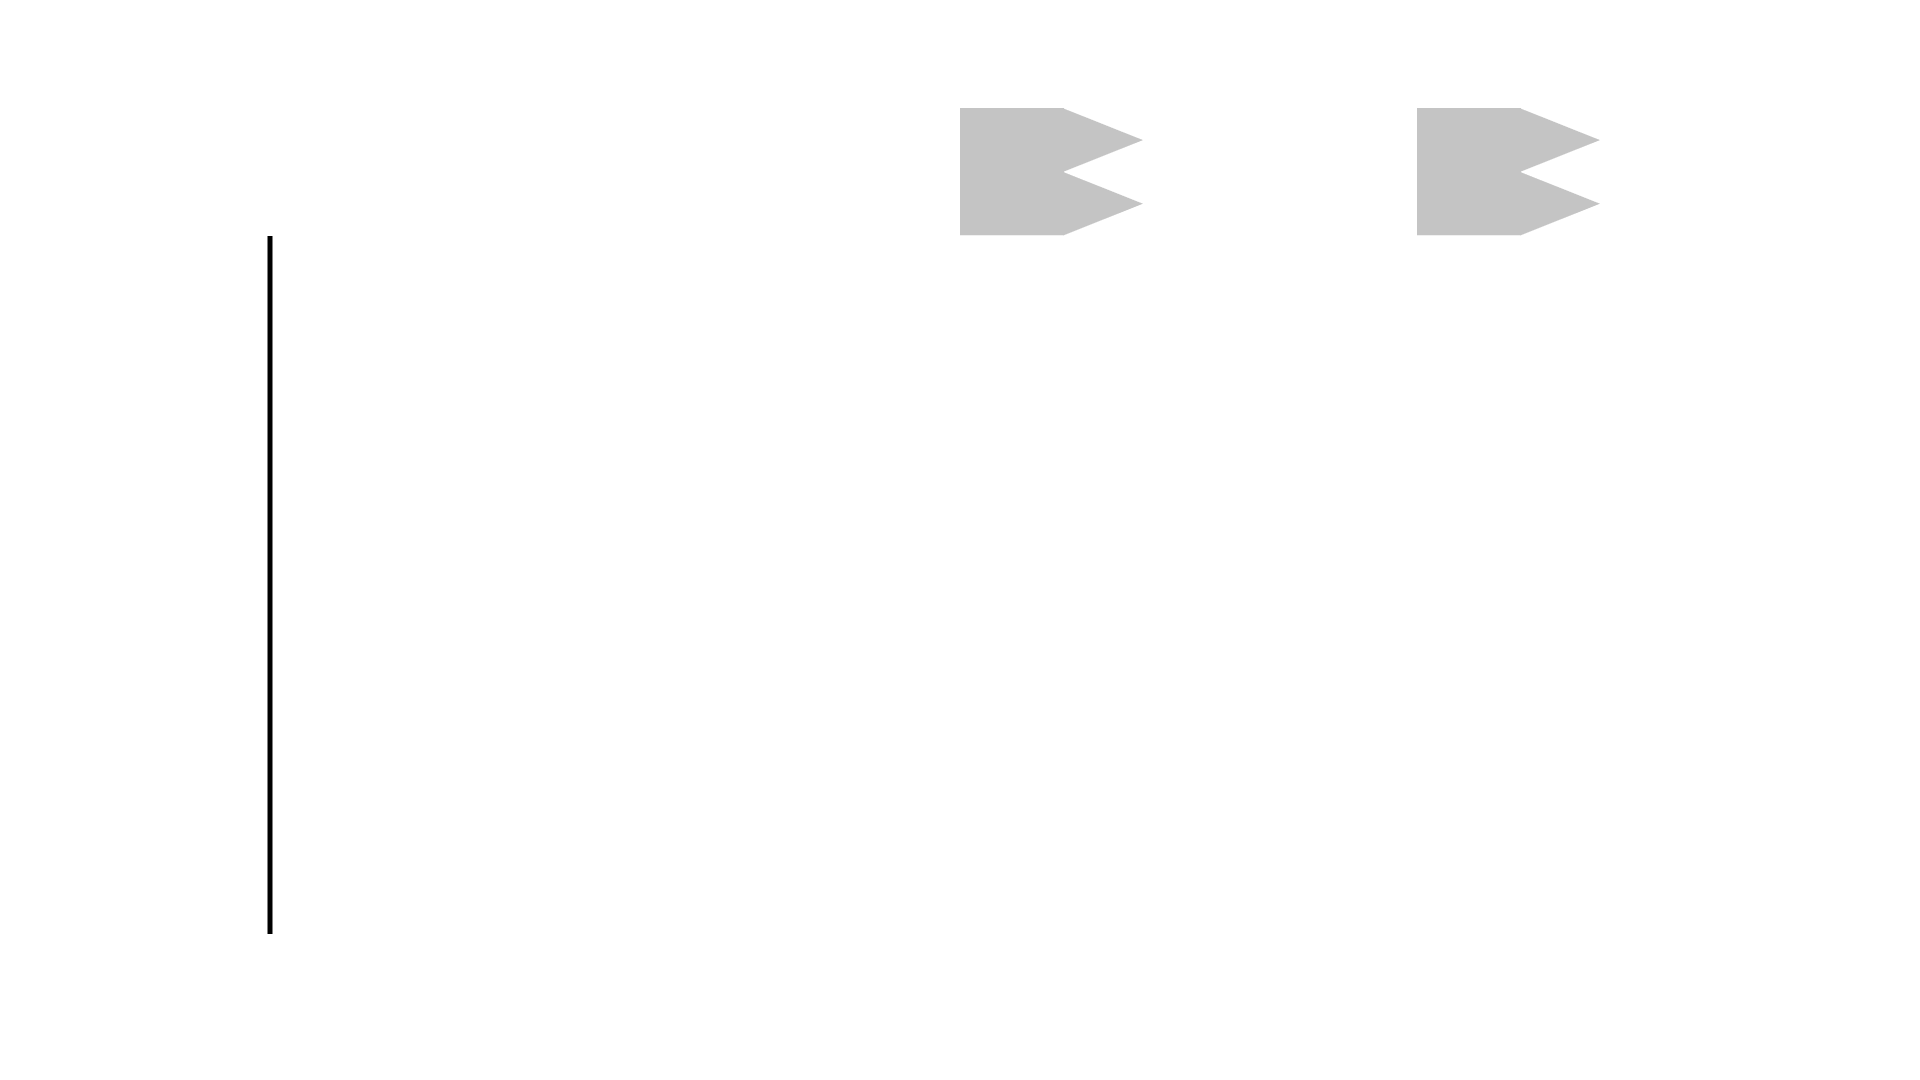
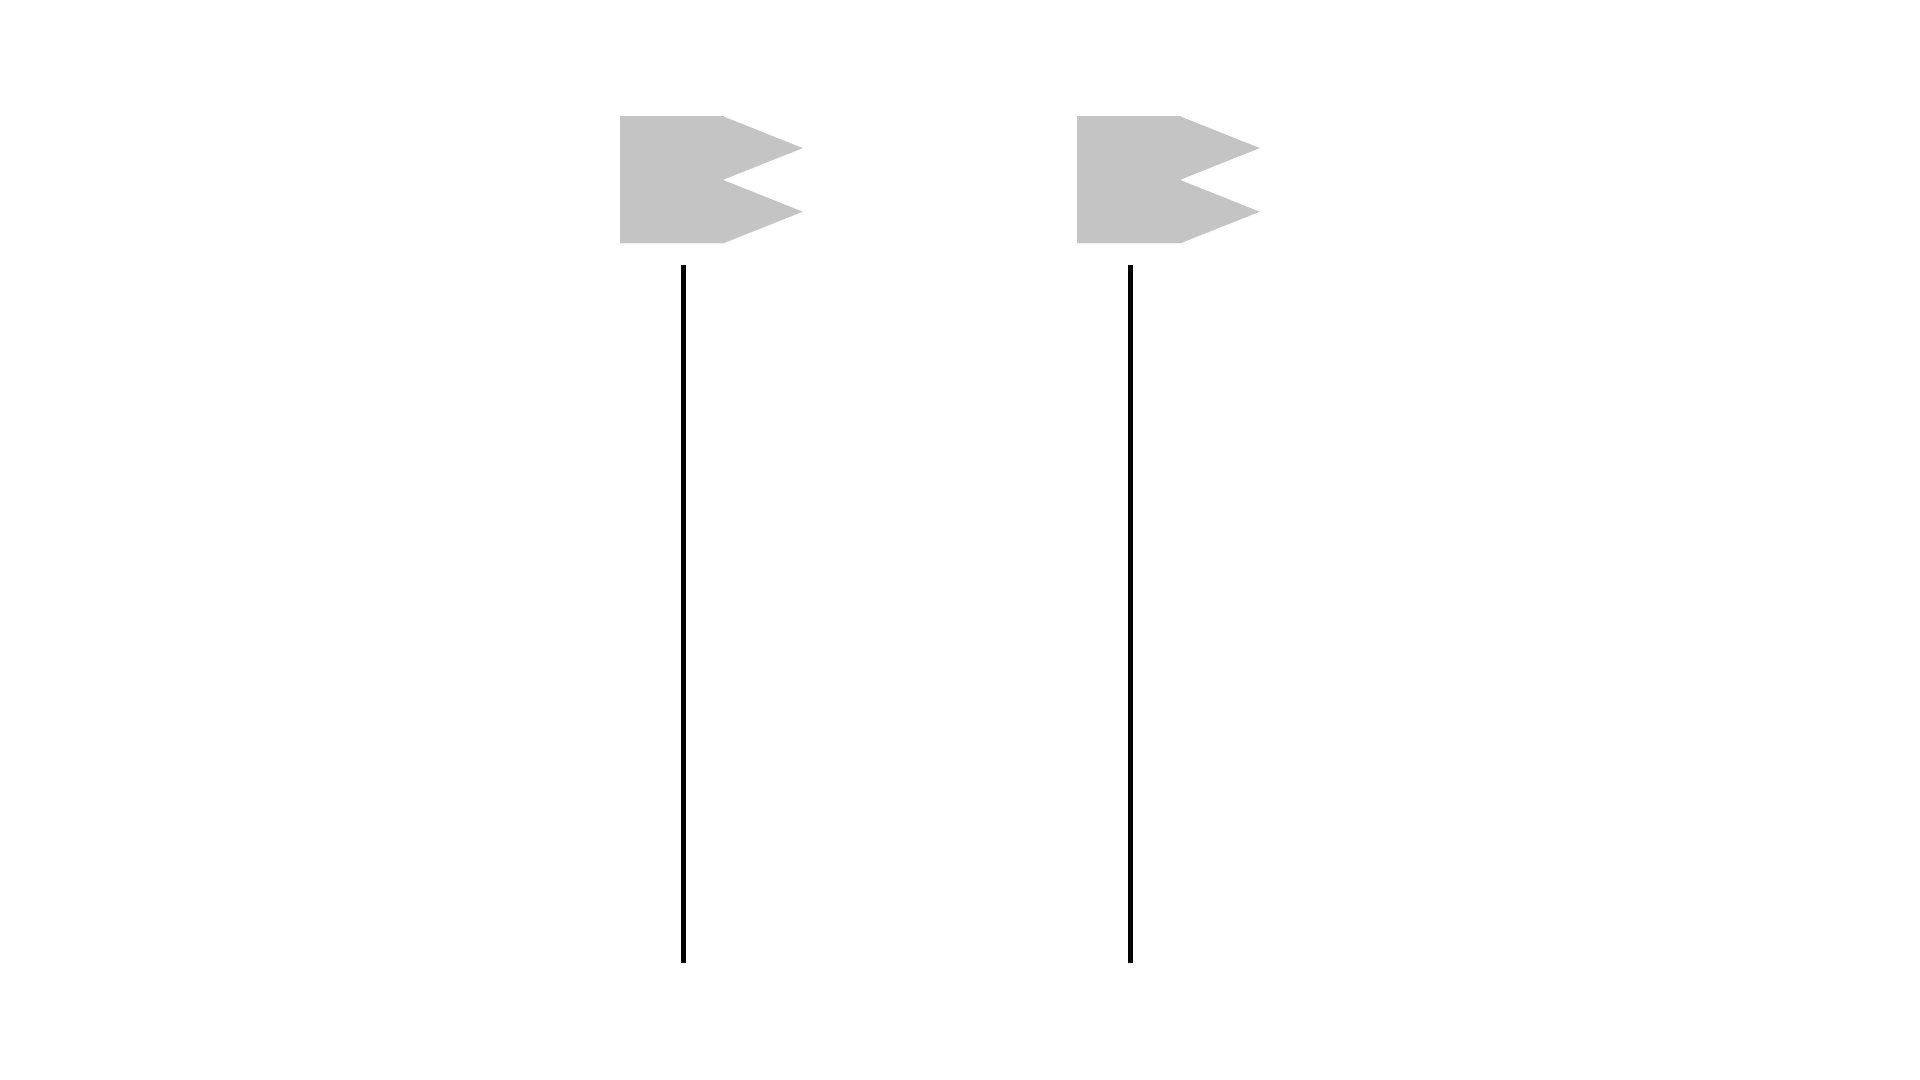
Game Participants and Teams joined and working

Changed region(s): [[0.5, 0.0917, 0.6562, 0.2444], [0.3125, 0.0917, 0.4375, 0.2444], [0.7188, 0.0917, 0.8438, 0.2444]]

diff --git a/MC7-Camp/Scenes/PickPlayersTeams.swift b/MC7-Camp/Scenes/PickPlayersTeams.swift
@@ -1,34 +1,25 @@
 //
-//  PickTeam.swift
+//  PickPlayers.swift
 //  MC7-Camp
 //
-//  Created by Paula Leite on 10/07/20.
+//  Created by Paula Leite on 14/07/20.
 //  Copyright © 2020 Paula Leite. All rights reserved.
 //
 
 import Foundation
 import SpriteKit
 
-enum Selection {
-    case none
-    case team1
-    case team2
-}
-
-class PickTeam: SKScene {
+class PickPlayersTeams: SKScene {
+    var backgroundImage = String()
+    var nameGameChosen = String()
+    
     var backButton = MenuButtonNode()
     var buttons = [MenuButtonNode]()
-    var flags = [MenuButtonNode]()
     var teamButtons = [MenuButtonNode]()
     var playButton = MenuButtonNode()
     
     var numberOfPlayers = Int()
     var colorName = [String]()
-    
-    var flag1 = MenuButtonNode()
-    var flag2 = MenuButtonNode()
-    var flag3 = MenuButtonNode()
-    var flag4 = MenuButtonNode()
     var nameOfFlags = [String]()
     
     var flag1Selected = MenuButtonNode()
@@ -40,59 +31,14 @@ class PickTeam: SKScene {
     var flag3Team = MenuButtonNode()
     var flag4Team = MenuButtonNode()
     
-    var user1 = [Any]()
-    var user2 = [Any]()
-    var user3 = [Any]()
-    
     override func didMove(to view: SKView) {
         setupBackground()
         setupUIButtons()
         
-        numberOfPlayers = 2
-        setupFlags(numberOfPlayers: numberOfPlayers)
+        numberOfPlayers = 3
         setupTeamButtons(numberOfPlayers: numberOfPlayers)
         
         addTapGestureRecognizer()
-    }
-    
-    func setupFlags(numberOfPlayers: Int) {
-        var i = 0
-        let nameFlag = "flag"
-        while(i < numberOfPlayers) {
-            let colorFlag = nameFlag + "\(i + 1)"
-            nameOfFlags.append(colorFlag)
-            i = i + 1
-        }
-        
-        if numberOfPlayers == 2 {
-            flag1 = MenuButtonNode(name: nameOfFlags[0])
-            flag1.position = CGPoint(x: 352, y: 725)
-            flag1.zPosition = 0
-            addChild(flag1)
-            flags.append(flag1)
-            
-            flag2 = MenuButtonNode(name: nameOfFlags[1])
-            flag2.position = CGPoint(x: 352, y: 540)
-            flag2.zPosition = 0
-            addChild(flag2)
-        } else {
-            flag1 = MenuButtonNode(name: nameOfFlags[0])
-            flag1.position = CGPoint(x: 352, y: 725)
-            flag1.zPosition = 0
-            addChild(flag1)
-            flags.append(flag1)
-            
-            flag2 = MenuButtonNode(name: nameOfFlags[1])
-            flag2.position = CGPoint(x: 352, y: 540)
-            flag2.zPosition = 0
-            addChild(flag2)
-            flags.append(flag2)
-            
-            flag3 = MenuButtonNode(name: nameOfFlags[2])
-            flag3.position = CGPoint(x: 352, y: 353)
-            flag3.zPosition = 0
-            addChild(flag3)
-        }
     }
     
     func setupUIButtons() {
@@ -124,62 +70,62 @@ class PickTeam: SKScene {
         
         if numberOfPlayers == 2 {
             flag1Team = MenuButtonNode(name: "botaoTime")
-            flag1Team.position = CGPoint(x: 1219, y: 700)
+            flag1Team.position = CGPoint(x: 914, y: 600)
             flag1Team.zPosition = 0
             addChild(flag1Team)
             teamButtons.append(flag1Team)
-            flag1Team.selectedTeam1 = true
+            flag1Team.participating = true
             
-            flag1Selected = MenuButtonNode(name: "button_selected")
-            flag1Selected.position = CGPoint(x: 992.5, y: 700)
+            flag1Selected = MenuButtonNode(name: nameOfFlags[0])
+            flag1Selected.position = CGPoint(x: 761, y: 600)
             flag1Selected.zPosition = 1
             addChild(flag1Selected)
             
             flag2Team = MenuButtonNode(name: "botaoTime")
-            flag2Team.position = CGPoint(x: 1219, y: 519)
+            flag2Team.position = CGPoint(x: 914, y: 420)
             flag2Team.zPosition = 0
             addChild(flag2Team)
             teamButtons.append(flag2Team)
-            flag2Team.selectedTeam1 = true
+            flag2Team.participating = true
             
-            flag2Selected = MenuButtonNode(name: "button_selected")
-            flag2Selected.position = CGPoint(x: 992.5, y: 519)
+            flag2Selected = MenuButtonNode(name: nameOfFlags[1])
+            flag2Selected.position = CGPoint(x: 761, y: 420)
             flag2Selected.zPosition = 1
             addChild(flag2Selected)
         } else {
             flag1Team = MenuButtonNode(name: "botaoTime")
-            flag1Team.position = CGPoint(x: 1219, y: 700)
+            flag1Team.position = CGPoint(x: 914, y: 600)
             flag1Team.zPosition = 0
             addChild(flag1Team)
             teamButtons.append(flag1Team)
-            flag1Team.selectedTeam1 = true
+            flag1Team.participating = true
             
-            flag1Selected = MenuButtonNode(name: "button_selected")
-            flag1Selected.position = CGPoint(x: 992.5, y: 700)
+            flag1Selected = MenuButtonNode(name: nameOfFlags[0])
+            flag1Selected.position = CGPoint(x: 761, y: 600)
             flag1Selected.zPosition = 1
             addChild(flag1Selected)
             
             flag2Team = MenuButtonNode(name: "botaoTime")
-            flag2Team.position = CGPoint(x: 1219, y: 519)
+            flag2Team.position = CGPoint(x: 914, y: 420)
             flag2Team.zPosition = 0
             addChild(flag2Team)
             teamButtons.append(flag2Team)
-            flag2Team.selectedTeam1 = true
+            flag2Team.participating = true
             
-            flag2Selected = MenuButtonNode(name: "button_selected")
-            flag2Selected.position = CGPoint(x: 992.5, y: 519)
+            flag2Selected = MenuButtonNode(name: nameOfFlags[1])
+            flag2Selected.position = CGPoint(x: 761, y: 420)
             flag2Selected.zPosition = 1
             addChild(flag2Selected)
             
             flag3Team = MenuButtonNode(name: "botaoTime")
-            flag3Team.position = CGPoint(x: 1219, y: 344)
+            flag3Team.position = CGPoint(x: 914, y: 245)
             flag3Team.zPosition = 0
             addChild(flag3Team)
             teamButtons.append(flag3Team)
-            flag3Team.selectedTeam1 = true
+            flag3Team.participating = true
             
-            flag3Selected = MenuButtonNode(name: "button_selected")
-            flag3Selected.position = CGPoint(x: 992.5, y: 344)
+            flag3Selected = MenuButtonNode(name: nameOfFlags[2])
+            flag3Selected.position = CGPoint(x: 761, y: 245)
             flag3Selected.zPosition = 1
             addChild(flag3Selected)
         }
@@ -190,7 +136,8 @@ class PickTeam: SKScene {
     }
     
     func setupBackground() {
-        let background = SKSpriteNode(imageNamed: "chooseTeam")
+//        guard let backgroundImage = gameChosen?.backgroundImage else { return }
+        let background = SKSpriteNode(imageNamed: backgroundImage)
         background.position = CGPoint(x: 960, y: 540)
         background.zPosition = -1
         addChild(background)
@@ -222,34 +169,50 @@ class PickTeam: SKScene {
                 let scene = GameChoices(size: size)
                 loadScreens(scene: scene)
             } else if focussedItem == playButton {
-                /* Load BallGame scene */
-                guard let size = view?.frame.size else { return }
-                let scene = BallGame(size: size)
-                // I need to send which players are playing.
-                loadScreens(scene: scene)
+                if backgroundImage == "chooseParticipants" && nameGameChosen == "Bagunca" {
+                    /* Load BallGame scene */
+                    guard let size = view?.frame.size else { return }
+                    let scene = MessGame(size: size)
+                    // I need to send which players are playing.
+                    loadScreens(scene: scene)
+                } else if backgroundImage == "chooseParticipants" && nameGameChosen == "Basquete" {
+                    self.backgroundImage = "chooseTeam"
+                    self.nameGameChosen = "Basquete"
+                    let scene = PickPlayersTeams(size: size)
+                    scene.backgroundImage = self.backgroundImage
+                    scene.nameGameChosen = self.nameGameChosen
+                    self.loadScreens(scene: scene)
+                } else if backgroundImage == "chooseTeam" && nameGameChosen == "Basquete" {
+                    /* Load BallGame scene */
+                    guard let size = view?.frame.size else { return }
+                    let scene = BallGame(size: size)
+                    // I need to send which players are playing.
+                    loadScreens(scene: scene)
+                }
+                
             } else if focussedItem == flag1Team {
-                if flag1Team.selectedTeam1 == true {
-                    flag1Selected.position = CGPoint(x: 1440, y: 700)
-                    flag1Team.selectedTeam1 = false
+                if flag1Team.participating == true {
+                    flag1Selected.position = CGPoint(x: 1208, y: 600)
+                    flag1Team.participating = false
                 } else {
-                    flag1Selected.position = CGPoint(x: 992.5, y: 700)
-                    flag1Team.selectedTeam1 = true
+                    flag1Selected.position = CGPoint(x: 761, y: 600)
+                    flag1Team.participating = true
                 }
             } else if focussedItem == flag2Team {
-                if flag2Team.selectedTeam1 == true {
-                    flag2Selected.position = CGPoint(x: 1440, y: 519)
-                    flag2Team.selectedTeam1 = false
+                if flag2Team.participating == true {
+                    flag2Selected.position = CGPoint(x: 1208, y: 420)
+                    flag2Team.participating = false
                 } else {
-                    flag2Selected.position = CGPoint(x: 992.5, y: 519)
-                    flag2Team.selectedTeam1 = true
+                    flag2Selected.position = CGPoint(x: 761, y: 420)
+                    flag2Team.participating = true
                 }
             } else if focussedItem == flag3Team {
-                if flag3Team.selectedTeam1 == true {
-                    flag3Selected.position = CGPoint(x: 1440, y: 344)
-                    flag3Team.selectedTeam1 = false
+                if flag3Team.participating == true {
+                    flag3Selected.position = CGPoint(x: 1208, y: 245)
+                    flag3Team.participating = false
                 } else {
-                    flag3Selected.position = CGPoint(x: 992.5, y: 344)
-                    flag3Team.selectedTeam1 = true
+                    flag3Selected.position = CGPoint(x: 761, y: 245)
+                    flag3Team.participating = true
                 }
             }
         }

diff --git a/MC7-Camp/Scenes/GameChoices.swift b/MC7-Camp/Scenes/GameChoices.swift
@@ -15,6 +15,8 @@ class GameChoices: SKScene {
     var backButton = MenuButtonNode()
     var messGameButton = MenuButtonNode()
     var ballGameButton = MenuButtonNode()
+    var backgroundImage = String()
+    var nameGameChosen = String()
     
     override func didMove(to view: SKView) {
         print("Inside Game Choices.")
@@ -82,14 +84,17 @@ class GameChoices: SKScene {
                 print("Could not make MainMenu, check the name is spelled correctly")
                 loadScreens(scene: scene)
             } else if focussedItem == messGameButton {
+                
                 let alert = UIAlertController(title: "Jogar o Jogo da Bagunça", message: "Você tem certeza de que deseja jogar esse jogo?", preferredStyle: .alert)
                 alert.addAction(UIAlertAction(title: "Cancelar", style: .cancel, handler: { _ in }))
                 alert.addAction(UIAlertAction(title: "Confirmar", style: .default, handler: { (_) in
-                    //TODO: Aqui deve sair do servidor como membro
-                    /* Load Main scene */
+                    /* Load Pick Players scene */
                     guard let size = self.view?.frame.size else { return }
-                    let scene = PickTeam(size: size)
-                    print("Could not make Pick Teams, check the name is spelled correctly")
+                    self.backgroundImage = "chooseParticipants"
+                    self.nameGameChosen = "Bagunca"
+                    let scene = PickPlayersTeams(size: size)
+                    scene.backgroundImage = self.backgroundImage
+                    scene.nameGameChosen = self.nameGameChosen
                     self.loadScreens(scene: scene)
                 }))
                 if let vc = self.scene?.view?.window?.rootViewController {
@@ -99,11 +104,13 @@ class GameChoices: SKScene {
                 let alert = UIAlertController(title: "Jogar o Jogo de Basquete", message: "Você tem certeza de que deseja jogar esse jogo?", preferredStyle: .alert)
                 alert.addAction(UIAlertAction(title: "Cancelar", style: .cancel, handler: { _ in }))
                 alert.addAction(UIAlertAction(title: "Confirmar", style: .default, handler: { (_) in
-                    //TODO: Aqui deve sair do servidor como membro
-                    /* Load Main scene */
+                    /* Load Pick Team scene */
                     guard let size = self.view?.frame.size else { return }
-                    let scene = BallGame(size: size)
-                    print("Could not make BallGame, check the name is spelled correctly")
+                    self.backgroundImage = "chooseParticipants"
+                    self.nameGameChosen = "Basquete"
+                    let scene = PickPlayersTeams(size: size)
+                    scene.backgroundImage = self.backgroundImage
+                    scene.nameGameChosen = self.nameGameChosen
                     self.loadScreens(scene: scene)
                 }))
                 if let vc = self.scene?.view?.window?.rootViewController {

diff --git a/MC7-Camp/Nodes/MenuButtonNode.swift b/MC7-Camp/Nodes/MenuButtonNode.swift
@@ -13,6 +13,7 @@ class MenuButtonNode: SKSpriteNode {
     var effectNode: SKEffectNode?
 //    var node = SKSpriteNode()
     var selectedTeam1: Bool?
+    var participating: Bool?
     
     convenience init(name: String) {
         self.init()

diff --git a/MC7-Camp/Scenes/MessGame.swift b/MC7-Camp/Scenes/MessGame.swift
@@ -11,7 +11,7 @@ import SpriteKit
 
 class MessGame: SKScene {
     override func didMove(to view: SKView) {
-        print("Inside Ball Game.")
+        print("Inside Mess Game.")
         setupBackground()
     }
     
